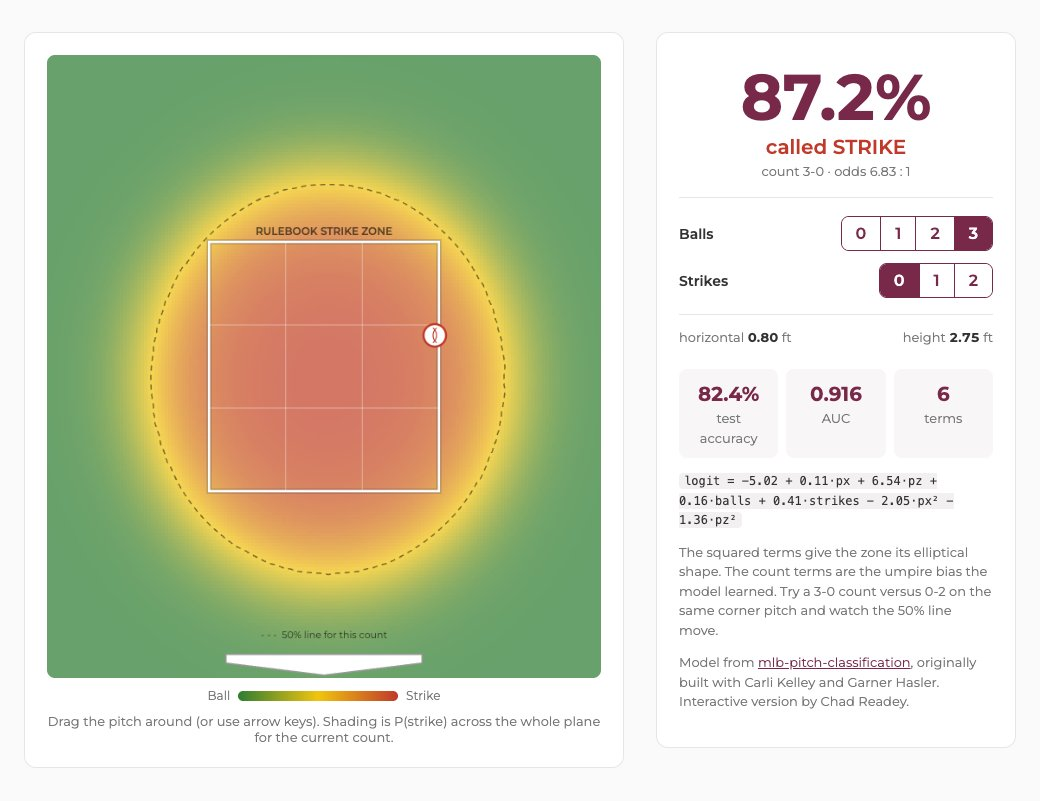
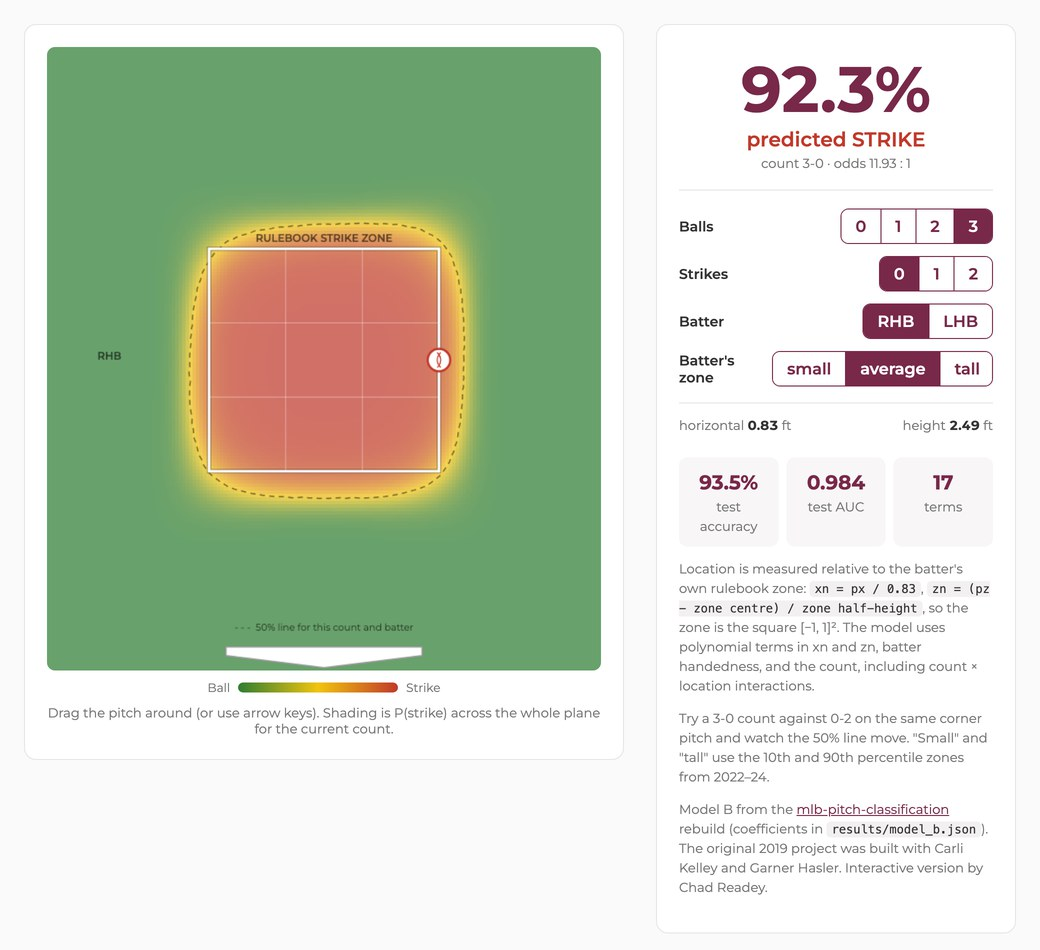
Update MLB card to the verified rebuild numbers
Training set 1.06M (2022-24 only; the old 1.42M included 2019), 93.5%
accuracy, about 65% within an inch outside the zone. Demo now runs the
rebuilt model, so the card says so and the screenshot is refreshed.

diff --git a/index.html b/index.html
@@ -283,8 +283,8 @@
 
     <article class="project">
       <figure>
-        <img src="media/mlb_demo.jpg" width="1040" height="801" loading="lazy" alt="Ball or Strike demo: a strike-zone heatmap of predicted strike probability with a pitch on the outside edge, showing 87.2% strike on a 3-0 count.">
-        <figcaption>The interactive demo (original 2019 model): change the count and the 50% line moves.</figcaption>
+        <img src="media/mlb_demo.jpg" width="1040" height="950" loading="lazy" alt="Ball or Strike demo: a strike-zone heatmap of called-strike probability for a right-handed batter, with a pitch on the outside edge showing 92.3% strike on a 3-0 count.">
+        <figcaption>The interactive demo runs the rebuilt model: change the count, batter side or zone size and the 50% line moves.</figcaption>
       </figure>
       <div>
         <h3>MLB Pitch Classification</h3>
@@ -295,11 +295,11 @@
           <dt>What I built</dt>
           <dd>A rebuild on Statcast data: a pipeline that pulls every called pitch from 2022–2026, and a logistic model that measures location relative to each batter's own zone. I also built the interactive demo. The original 2019 analysis was a 2023 group project with Carli Kelley and Garner Hasler.</dd>
           <dt>Evaluation</dt>
-          <dd>Trained on 1.42M called pitches from 2022–24 and tested on 708K from the later 2025–26 seasons: 93.4% accuracy, AUC 0.984. The original 2019 feature set scores 92.5% on the same split. Near the edge the call is genuinely uncertain: accuracy is about 64% for pitches within an inch outside the zone.</dd>
-          <dt>Demo</dt>
-          <dd>The interactive demo still runs the original 2019 model, which predicts any strike (called, swinging, or foul) and reached 82.4% test accuracy. The two numbers are not directly comparable.</dd>
+          <dd>Trained on 1.06M called pitches from 2022–24 and tested on 708K from the later 2025–26 seasons: 93.5% accuracy, AUC 0.984. The original 2019 feature set scores 92.5% on the same split, so most of the gain over the 2019 project comes from cleaner data and a cleaner target, not a cleverer model. Near the edge the call is genuinely uncertain: accuracy is about 65% for pitches within an inch outside the zone.</dd>
+          <dt>What I fixed</dt>
+          <dd>The 2019 project's 82.4% predicted any strike (called, swinging, or foul), so it is not comparable with these numbers. While publishing the rebuild I also found the training script silently adding 2019 to the 2022–24 training set; I fixed it and report the 2022–24-only numbers.</dd>
           <dt>Stack</dt>
-          <dd>Python, pybaseball (Statcast), scikit-learn, statsmodels, JavaScript canvas</dd>
+          <dd>Python, pybaseball (Statcast), pandas, scikit-learn, JavaScript canvas</dd>
         </dl>
         <div class="links">
           <a class="link-btn primary" href="mlb/">Try the demo</a>
